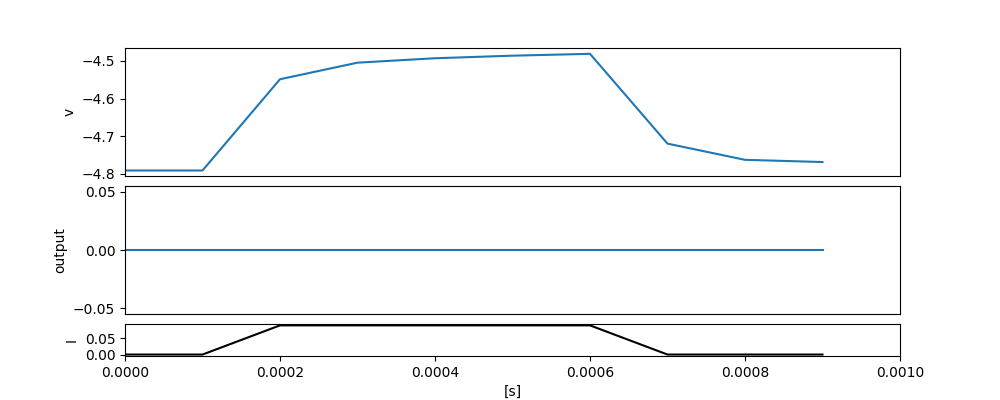
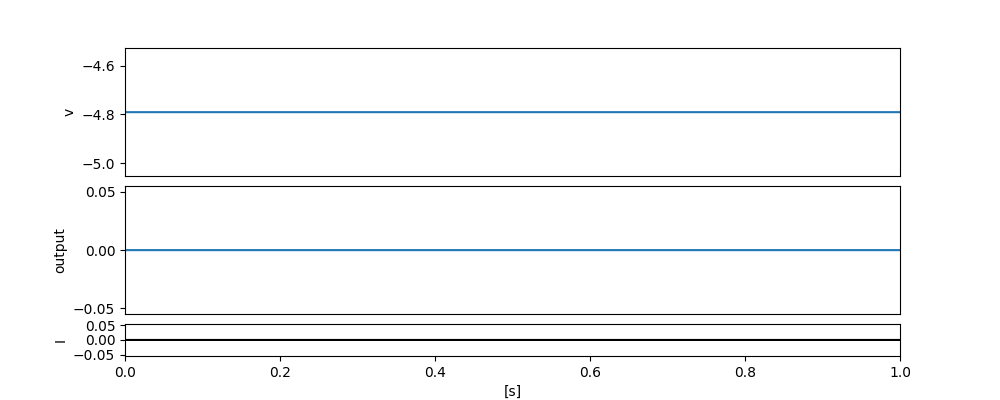
ネットワーク構造を修正

diff --git a/demo.py b/demo.py
@@ -9,10 +9,9 @@ from src.Synapses import DoubleExponentialSynapse
 import random
 
 if __name__ == "__main__":
-
-    #ラスタープロット
+    seed = 1
+    ##やることリスト
     #学習アルゴリズム追加
-    #8:2で興奮と抑制混ぜる
 
     # set a PQN cell
     # you can use RSexci, RSinhi, FS, LTS, IB, EB, PB, or Class2 mode
@@ -23,7 +22,7 @@ if __name__ == "__main__":
 
     #initialization
     # length of simulation [s]
-    tmax=0.001
+    tmax=1
     # set the number of iterations
     number_of_iterations=int(tmax/cell0.PARAM['dt'])
 
@@ -32,18 +31,39 @@ if __name__ == "__main__":
     spike = np.zeros(N)
     past_spike = np.zeros(N)
     resovoir_weight = np.zeros((N, N))
-    random.seed(42) # for reproducibility
-    for i in range(N):
-        for j in range(N):
-            p = random.random()
-            if p < 0.04:  # 4%の確率で結合
+    random.seed(seed) # for reproducibility
 
-                resovoir_weight[i][j] = 0.5*random.random()
-            elif p < 0.05:
-                resovoir_weight[i][j] = -0.5*random.random()  # 1%の確率で抑制結合
+    crust_idx = 0
+    while crust_idx != 4:
+        for i in range(int(crust_idx*N/4), int((crust_idx+1)*N/4)):
+            for j in range(int(crust_idx*N/4), int((crust_idx+1)*N/4)):
+                p = random.random()
+                if p < 0.5:
+                    i, j = j, i  # 入れ替え
+                p = random.random()
+                if p < 0.05:  # pの確率で結合
+                    if j<N/5+crust_idx*N/4:
+                        resovoir_weight[i][j] = 1*random.random()
+                    else:
+                        resovoir_weight[i][j] = -1*random.random()  # 2割　抑制結合
+        crust_idx += 1
+
+    M = 1   # クラスタ間の接続数
+    for hoge in range(M*4):
+        i_range = (hoge*N/4)%N
+        j_range = (hoge*N/2)%N
+        i = random.randint(int(i_range), int(i_range+N/4-1))
+        j = random.randint(int((j_range+N/4)%N), int((j_range+N/2-1)%N))
+        if (j%(N/4) < N/5):
+            resovoir_weight[i][j] = 1*random.random()
+        else:
+            resovoir_weight[i][j] = -1*random.random()
+
+    #クラスター間の接続
                 
+
     # np.set_printoptions(threshold=np.inf, linewidth=200, suppress=True)
-    # print(resovoir_weight)
+    # print(resovoir_weight)10
     
     # --- 2. NetworkX グラフに変換 ---
     G = nx.DiGraph()
@@ -53,27 +73,28 @@ if __name__ == "__main__":
             if w != 0:
                 G.add_edge(j, i, weight=w)  # j→i（pre→post）
 
-    # # --- 3. ノード配置（円形 or 自動レイアウト） ---
-    # pos = nx.spring_layout(G, seed=42)  # spring_layout / circular_layout など
+    # --- 3. ノード配置（円形 or 自動レイアウト） ---
+    pos = nx.spring_layout(G, seed=seed)  # spring_layout / circular_layout など
 
-    # # --- 4. エッジ属性（色と太さ） ---
-    # edges = G.edges(data=True)
-    # edge_colors = ['red' if d['weight'] > 0 else 'blue' for (u, v, d) in edges]
-    # edge_widths = [abs(d['weight'])*5 for (u, v, d) in edges]
+    # --- 4. エッジ属性（色と太さ） ---
+    edges = G.edges(data=True)
+    edge_colors = ['red' if d['weight'] > 0 else 'blue' for (u, v, d) in edges]
+    edge_widths = [abs(d['weight']) for (u, v, d) in edges]
 
-    # # --- 5. 可視化 ---
-    # plt.figure(num=1, figsize=(8, 8))
-    # nx.draw_networkx_nodes(G, pos, node_size=100, node_color="lightgray")
-    # nx.draw_networkx_edges(G, pos, edge_color=edge_colors, width=edge_widths, arrows=True, arrowstyle='-|>')
-    # plt.title("Reservoir Network Graph")
-    # plt.axis('off')
-    # plt.tight_layout()
-    # plt.savefig("network.png")
-    # plt.show(block=False)
+    # --- 5. 可視化 ---
+    plt.figure(num=1, figsize=(8, 8))
+    nx.draw_networkx_nodes(G, pos, node_size=5, node_color="lightgray")
+    nx.draw_networkx_edges(G, pos, edge_color=edge_colors, width=edge_widths, arrows=True, arrowstyle='-|>')
+    plt.title("Reservoir Network Graph")
+    plt.axis('off')
+    plt.tight_layout()
+    plt.savefig("network.png")
+    plt.show(block=False)
 
     # set step input
+    dt = cell0.PARAM['dt']
     I=np.zeros((number_of_iterations, N))
-    I[int(number_of_iterations/4):int(number_of_iterations/4*3)] = 0.09
+    I[int(0.05/dt):int(0.1/dt),2] = 0.09
     next_input = np.zeros(N)
 
     # run simulatiion
@@ -87,14 +108,14 @@ if __name__ == "__main__":
         # tmp = np.where(spike-past_spike > 0, 1, 0)
         # if(tmp[1] == 1):
         #     print(f"Spike at iteration {i}, time {i * cell0.PARAM['dt']:.2f} s")
-        next_input = 0.004*np.dot(resovoir_weight, output[i])  # update input for next iteration
+        next_input = 0.05*np.dot(resovoir_weight, output[i])  # update input for next iteration
         past_spike = spike
     #print(output.shape)
 
 
 
     end = time.perf_counter()
-    print(f"processing time for 1ms simulation mas {(end - start)*1000} ms when reservoir_size was {N}")
+    print(f"processing time for {tmax*1000}ms simulation mas {(end - start)*1000} ms when reservoir_size was {N}")
 
     # plot simulation result
     fig = plt.figure(num=2, figsize=(10,4))
@@ -102,15 +123,15 @@ if __name__ == "__main__":
     ax0 = fig.add_subplot(spec[0])
     ax1 = fig.add_subplot(spec[1])
     ax2 = fig.add_subplot(spec[2])
-    ax0.plot([i*cell0.PARAM['dt'] for i in range(0, number_of_iterations)], v0[:,2])
+    ax0.plot([i*cell0.PARAM['dt'] for i in range(0, number_of_iterations)], v0[:,4])
     ax0.set_xlim(0, tmax)
     ax0.set_ylabel("v")
     ax0.set_xticks([])
-    ax1.plot([i*cell0.PARAM['dt'] for i in range(0, number_of_iterations)], output[:,2])
+    ax1.plot([i*cell0.PARAM['dt'] for i in range(0, number_of_iterations)], output[:,4])
     ax1.set_xlim(0, tmax)
     ax1.set_ylabel("output")
     ax1.set_xticks([])
-    ax2.plot([i*cell0.PARAM['dt'] for i in range(0, number_of_iterations)], I[:,2], color="black")
+    ax2.plot([i*cell0.PARAM['dt'] for i in range(0, number_of_iterations)], I[:,4], color="black")
     ax2.set_xlim(0, tmax)
     ax2.set_xlabel("[s]")
     ax2.set_ylabel("I")
